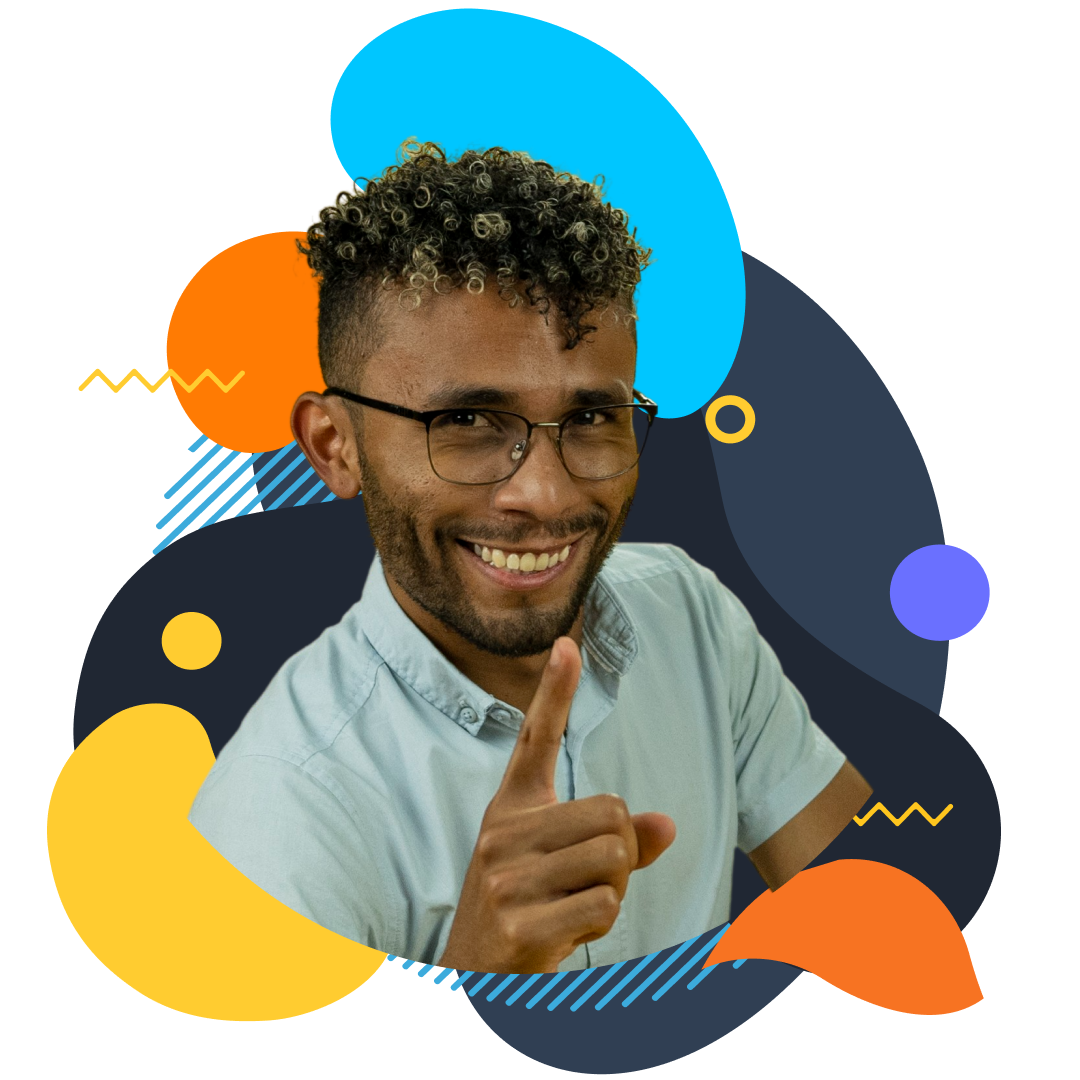
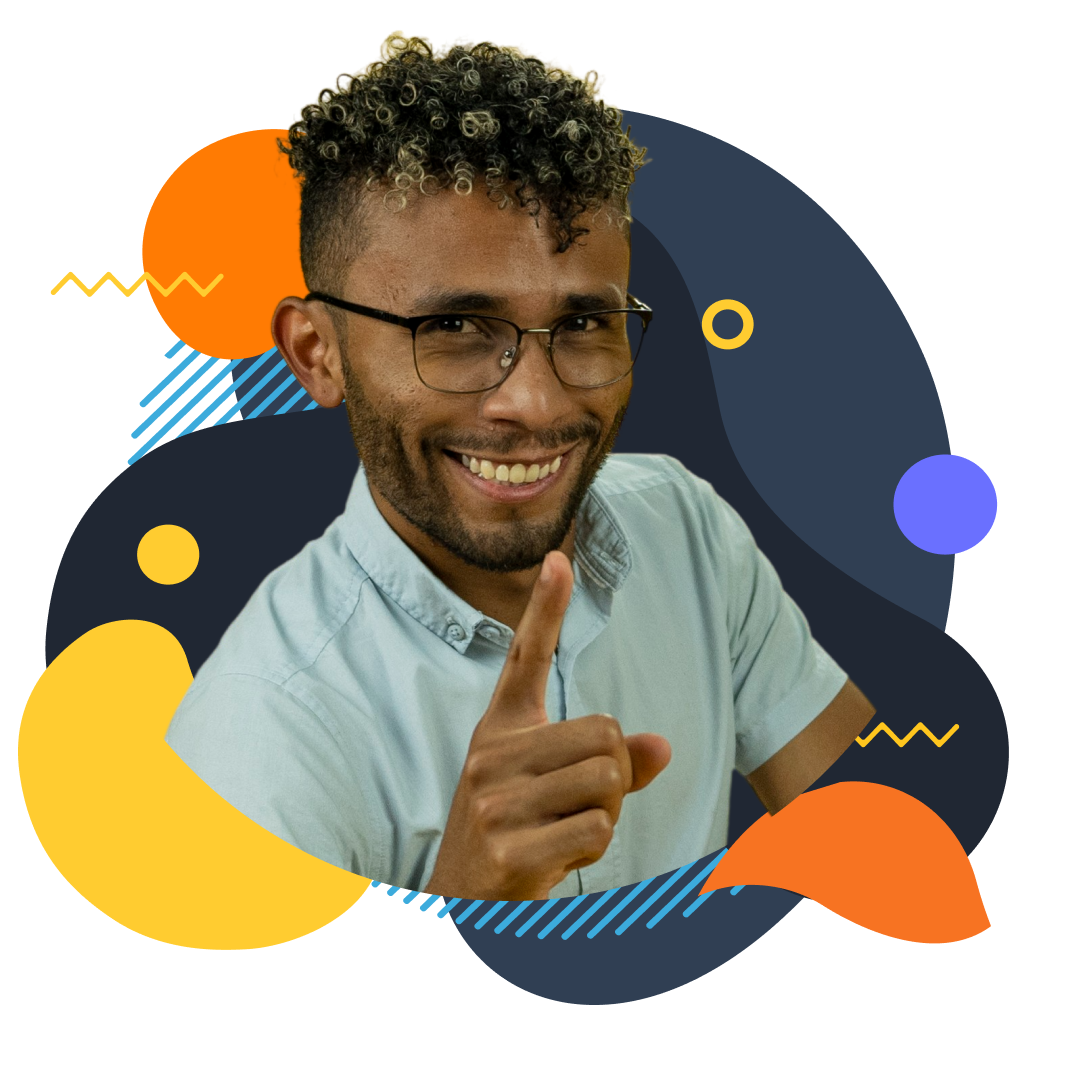
feat(hero): adding variables

diff --git a/pages/index.js b/pages/index.js
@@ -1,10 +1,11 @@
 import Head from "next/head";
-import Image from "next/image";
 import Link from "next/link";
 import { getDatabase } from "../lib/notion";
 import { Text } from "./[id].js";
 import ProfilePhoto from "../assets/rulo.png";
+
 import styles from "./index.module.scss";
+import { Hero } from "../components/hero/Hero";
 
 export const databaseId = process.env.NOTION_DATABASE_ID;
 
@@ -17,25 +18,7 @@ export default function Home({ posts }) {
       </Head>
 
       <main className={styles.container}>
-        <header className={styles.header}>
-          <div className='flex'>
-            <div className={styles.imageContainer}>
-              <Image
-                alt="Mountains"
-                src={ProfilePhoto}
-                layout="fill"
-                objectFit="contain"
-              />
-            </div>
-          </div>
-          <h1>Hi, I am Rulo</h1>
-          <p>Web developer</p>
-          <p>
-            Creating the next web generation. I want to make sure that the
-            internet is a safe, satisfying and secure place for everyone.
-          </p>
-          <button type="button">Let's Talk</button>
-        </header>
+       <Hero />
 
         {/* <h2 className={styles.heading}>All Posts</h2>
         <ol className={styles.posts}>

diff --git a/components/hero/Hero.jsx b/components/hero/Hero.jsx
@@ -1,0 +1,46 @@
+import React from "react";
+import Image from "next/image";
+
+import styles from "./Hero.module.scss";
+import BackgroundShape from "../../assets/Fondo.svg";
+import ProfilePhoto from "../../assets/rulo.png";
+
+export const Hero = () => {
+  return (
+    <header className={styles.hero}>
+      <div className={styles.bg1}>
+        <Image
+          alt="Mountains"
+          src={BackgroundShape}
+          layout="fill"
+          objectFit="contain"
+        />
+      </div>
+      <div className={styles.bg2}>
+        <Image
+          alt="Mountains"
+          src={BackgroundShape}
+          layout="fill"
+          objectFit="contain"
+        />
+      </div>
+      <div className="flex">
+        <div className={styles.imageContainer}>
+          <Image
+            alt="Mountains"
+            src={ProfilePhoto}
+            layout="fill"
+            objectFit="contain"
+          />
+        </div>
+      </div>
+      <h1>Hi, I am Rulo</h1>
+      <p className={styles.ocupation}>Web developer</p>
+      <p>
+        Creating the next web generation. I want to make sure that the internet
+        is a safe, satisfying and secure place for everyone.
+      </p>
+      <button type="button">Let's Talk</button>
+    </header>
+  );
+};

diff --git a/components/hero/Hero.module.scss b/components/hero/Hero.module.scss
@@ -1,0 +1,52 @@
+@import '../../styles/_variables.scss';
+
+.hero {
+  margin-top: 60px;
+}
+
+.imageContainer {
+  width: 250px;
+  height: 255px;
+  position: relative;
+}
+
+.header p {
+  opacity: 0.7;
+  line-height: 1.5;
+}
+
+.bg1 {
+  width: 215px;
+  height: 104px;
+  position: absolute;
+  left: 0;
+  top: -15%;
+}
+.bg2 {
+  width: 215px;
+  height: 104px;
+  position: absolute;
+  right: 5%;
+  bottom: 15%;
+}
+
+.ocupation {
+  color: $base-color;
+}
+
+$breakpoints: (
+  sm: 540px,
+  md: 768px,
+  lg: 1024px,
+  xl: 1280px,
+);
+
+@mixin media-up($breakpoint) {
+  @if map-has-key($breakpoints, $breakpoint) {
+    @media screen and (min-width: map-get($breakpoints,$breakpoint )) {
+      @content;
+    }
+  } @else {
+    @warn "The value '#{breakpoint}' has not been declared as a breakpoint";
+  }
+}

diff --git a/styles/globals.scss b/styles/globals.scss
@@ -1,26 +1,24 @@
 
+@import 'variables';
+@import 'mixins';
 
-*{
-  margin: 0;
-  padding: 0;
-  letter-spacing: 1px;
-  font-weight: 300;
-}
 
-html,
-body {
+
+html{
   overflow-x: hidden;
- 
+  box-sizing: border-box;
   font-family: "Roboto";
   font-size: 62.5%;
   font-size: 10px;
-
-
-  
+}
+* , *::before, *::after{
+  box-sizing: inherit;
+  margin: 0; padding: 0;
 }
 
 body {
   background-color: #202833;
+  font-family: "Roboto", sans-serif;
   color: #fff;
 }
 
@@ -36,13 +34,25 @@ a {
   text-decoration: none;
 }
 
-* {
-  box-sizing: border-box;
-}
 
-h1 {
-  font-weight: 800;
-}
+
+p  {
+  font-size: $font-p;
+ }
+
+ h1 { 
+  font-size: $font-h1;
+ }
+ h2 { 
+  font-size: $font-h2;
+ }
+ h3 { 
+  font-size: $font-h3;
+  font-weight: lighter;
+ }
+
+
+
 
 
 

diff --git a/styles/_variables.scss b/styles/_variables.scss
@@ -1,0 +1,16 @@
+$font-p: 1.8rem;
+$font-h1: 3.0rem;
+$font-h2: 2.4rem;
+$font-h3: 2.0rem;
+
+
+
+$base-color: #c6538c;
+
+$color-background:#202833;
+$color-background-dark:#090C0F;
+
+$color-neutral: #7C8088;
+$color-purple: #6A70FF;
+$color-action: #06C5FF;
+$color-text: #F2F2F2;

diff --git a/pages/index.module.scss b/pages/index.module.scss
@@ -10,20 +10,8 @@
 }
 
 
-.Flex {
-  display: flex;
-  justify-content: center;
-}
-.imageContainer {
-  width: 250px;
-  height: 255px;
-  position: relative;
-}
 
-.header p {
-  opacity: 0.7;
-  line-height: 1.5;
-}
+
 
 .plus {
   font-size: 20px;

diff --git a/styles/_mixins.scss b/styles/_mixins.scss
@@ -1,0 +1,7 @@
+@mixin flex-box($f1, $f2, $wrap, $direction){
+    display: flex;
+    justify-content: $principal;
+    align-items: $cruzado;
+    flex-wrap: $wrap;
+    flex-direction: $direction;
+}

diff --git a/pages/_app.js b/pages/_app.js
@@ -1,5 +1,5 @@
 import { Layout } from "../components/layout/Layout";
-import "../styles/globals.css";
+import "../styles/globals.scss";
 
 function MyApp({ Component, pageProps }) {
   return (
